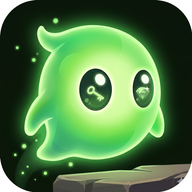
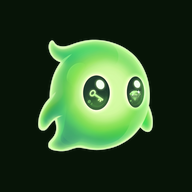
feat: nowy sprite duszka w grze + splash screen + ikony TWA v1.28
- game.html: sprite gracza → wisp-ghost.png (PNG z przezroczystością)
- game.html: splash screen pełnoekranowy przy starcie (wisp-splash.jpg, 2s)
- game.html: fixed timestep delta time (framerate-independent)
- public/wisp-ghost.png: nowy sprite duszka (flood fill bg removal)
- public/wisp-splash.jpg: splash screen (scena z duszkiem i portalem)
- public/icon-192.png, icon-512.png: nowy duszek jako ikona web
- TWA: splash.png (wszystkie gęstości) → nowy obrazek sceny
- TWA: ic_launcher/ic_maskable (wszystkie gęstości) → nowy duszek
- TWA: versionCode 29, versionName 1.28

diff --git a/public/game.html b/public/game.html
@@ -362,6 +362,18 @@ canvas{
 </head>
 <body>
 
+<!-- Splash screen — nowe logo, 2 sekundy przy starcie -->
+<div id="splash-screen" style="position:fixed;inset:0;z-index:9999;background:#040a04;display:flex;align-items:center;justify-content:center;transition:opacity .6s;">
+  <img src="/wisp-splash.jpg" style="width:100%;height:100%;object-fit:cover;" alt="Wisp">
+</div>
+<script>
+  setTimeout(function(){
+    var s = document.getElementById('splash-screen');
+    s.style.opacity = '0';
+    setTimeout(function(){ s.style.display = 'none'; }, 650);
+  }, 2000);
+</script>
+
 <!-- Panel lewy — widoczny tylko na desktopie -->
 <div id="desktop-left">
   <div class="dp-logo">🌿 Wisp<span>Duch Lasu</span></div>
@@ -455,7 +467,7 @@ canvas{
         <canvas id="menu-particles" style="position:absolute;inset:0;width:100%;height:100%;pointer-events:none;"></canvas>
         <button onclick="toggleLang()" id="menu-lang-btn" style="position:absolute;top:10px;right:12px;background:rgba(20,20,40,.7);color:#a0a0e0;border:1px solid #404060;border-radius:8px;padding:4px 10px;font-size:11px;cursor:pointer;z-index:5;">🌍 EN</button>
         <div id="title-row">
-          <img src="/wisp-menu-icon.png" width="60" height="60" alt="Wisp" class="menu-wisp-float">
+
           <h1 style="color:#b8f0a0;">🌿 Wisp</h1>
           <a href="https://play.google.com/store/apps/details?id=com.epro.wisp" target="_blank" rel="noopener" id="btn-install-gplay">
             <svg width="16" height="16" viewBox="0 0 24 24" fill="white" style="margin-bottom:2px;"><path d="M3 20.5v-17c0-.83.94-1.3 1.6-.8l14 8.5c.6.37.6 1.23 0 1.6l-14 8.5c-.66.5-1.6.03-1.6-.8z"/></svg>
@@ -1701,6 +1713,13 @@ const IS_TWA = ('getDigitalGoodsService' in window) ||
                document.referrer.startsWith('android-app://') ||
                window.matchMedia('(display-mode: standalone)').matches;
 let particles=[], camera={y:0}, frameT=0, animT=0, _dt=1, _loopLastTime=null, _physAcc=0;
+
+let _wispSprite = null;
+(function(){
+  const img = new Image();
+  img.onload = function(){ _wispSprite = img; };
+  img.src = '/wisp-ghost.png?v=3';
+})();
 const _PHYS_STEP = 1000/60;
 
 // ── Player ──────────────────────────────────────
@@ -3429,45 +3448,29 @@ function drawPlayer(){
   });
 
   ctx.save();
-  ctx.translate(px+P.w/2,py+P.h/2);
 
   const bodyCol = GS.level>=8?'#60c0ff':GS.level>=6?'#c080ff':GS.level>=4?'#d0a0ff':'#80ee60';
-  ctx.shadowColor=bodyCol+'cc';
-  ctx.shadowBlur=16;
 
-  const bg=ctx.createRadialGradient(-2,-4,2,0,0,14);
-  bg.addColorStop(0,'#e8ffe0');
-  bg.addColorStop(0.4,bodyCol);
-  bg.addColorStop(1,'rgba(20,100,10,.3)');
-  ctx.fillStyle=bg;
-  ctx.beginPath();
-  ctx.ellipse(0,0,13,15,0,0,Math.PI*2);
-  ctx.fill();
+  // Glow wokół sprite'a
+  ctx.shadowColor = bodyCol;
+  ctx.shadowBlur = 22;
 
-  // Key glow if carrying
-  if(P.hasKey){
-    ctx.strokeStyle='rgba(255,215,0,.6)';
-    ctx.lineWidth=2;
-    ctx.beginPath();
-    ctx.arc(0,0,17,0,Math.PI*2);
-    ctx.stroke();
+  if(_wispSprite){
+    // Sprite ikony — lekko większy od hitboxa żeby glow był widoczny
+    ctx.drawImage(_wispSprite, px-6, py-10, 34, 38);
+  } else {
+    // Fallback zanim sprite się załaduje
+    ctx.fillStyle = bodyCol;
+    ctx.beginPath();ctx.arc(px+P.w/2,py+P.h/2,12,0,Math.PI*2);ctx.fill();
   }
 
-  ctx.shadowBlur=0;
-  ctx.fillStyle='#0a200a';
-  ctx.beginPath();ctx.arc(-4,-3,2.5,0,Math.PI*2);ctx.fill();
-  ctx.beginPath();ctx.arc(4,-3,2.5,0,Math.PI*2);ctx.fill();
-  ctx.fillStyle='white';
-  ctx.beginPath();ctx.arc(-3,-4,1,0,Math.PI*2);ctx.fill();
-  ctx.beginPath();ctx.arc(5,-4,1,0,Math.PI*2);ctx.fill();
-
-  // Tail
-  ctx.strokeStyle=bodyCol+'66';
-  ctx.lineWidth=2;
-  ctx.beginPath();
-  ctx.moveTo(0,12);
-  ctx.quadraticCurveTo(6*Math.sin(P.animT),20,0,26);
-  ctx.stroke();
+  // Key glow
+  if(P.hasKey){
+    ctx.shadowBlur=0;
+    ctx.strokeStyle='rgba(255,215,0,.6)';
+    ctx.lineWidth=2;
+    ctx.beginPath();ctx.arc(px+P.w/2,py+P.h/2-2,16,0,Math.PI*2);ctx.stroke();
+  }
 
   ctx.restore();
 }
